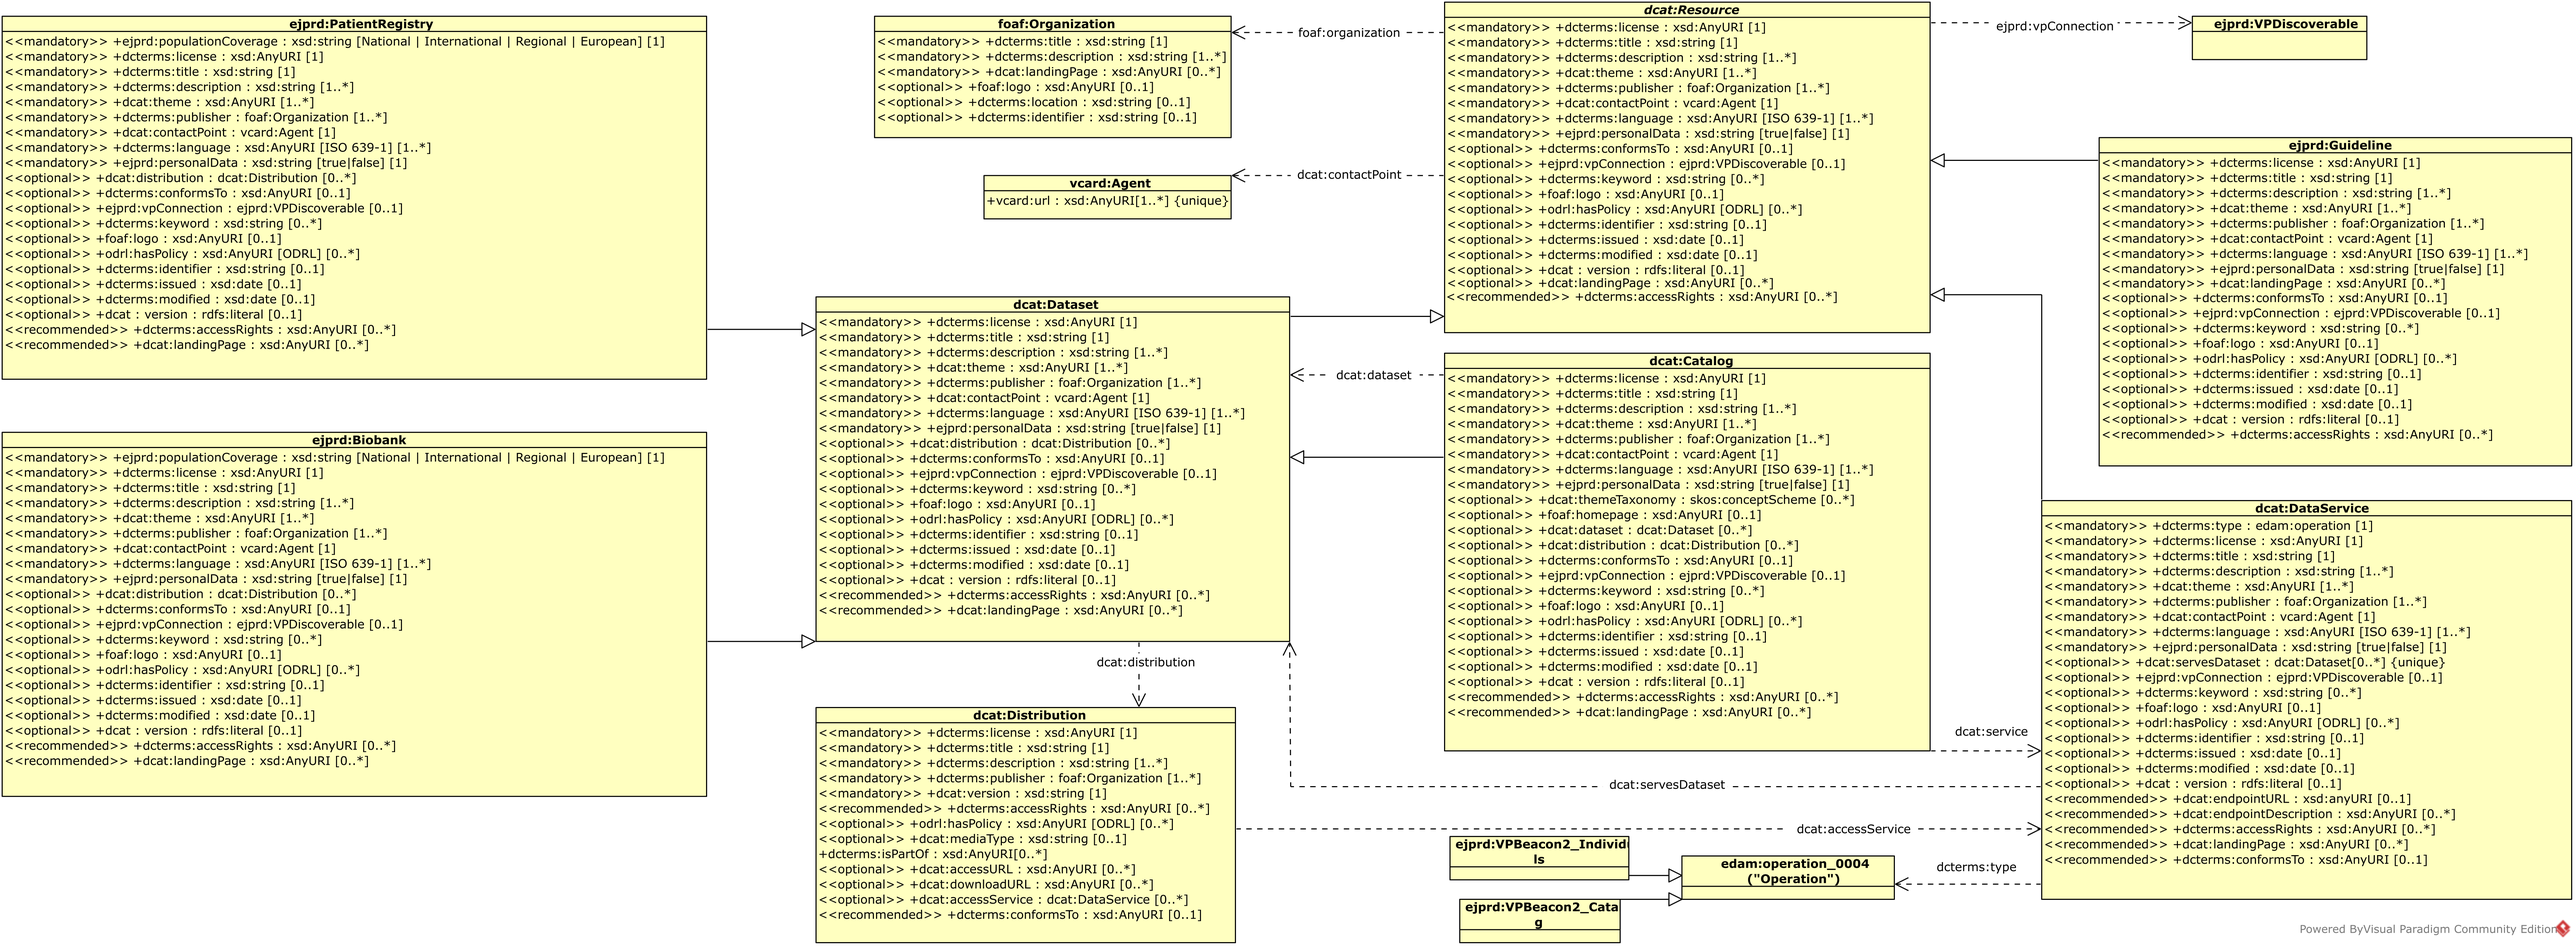
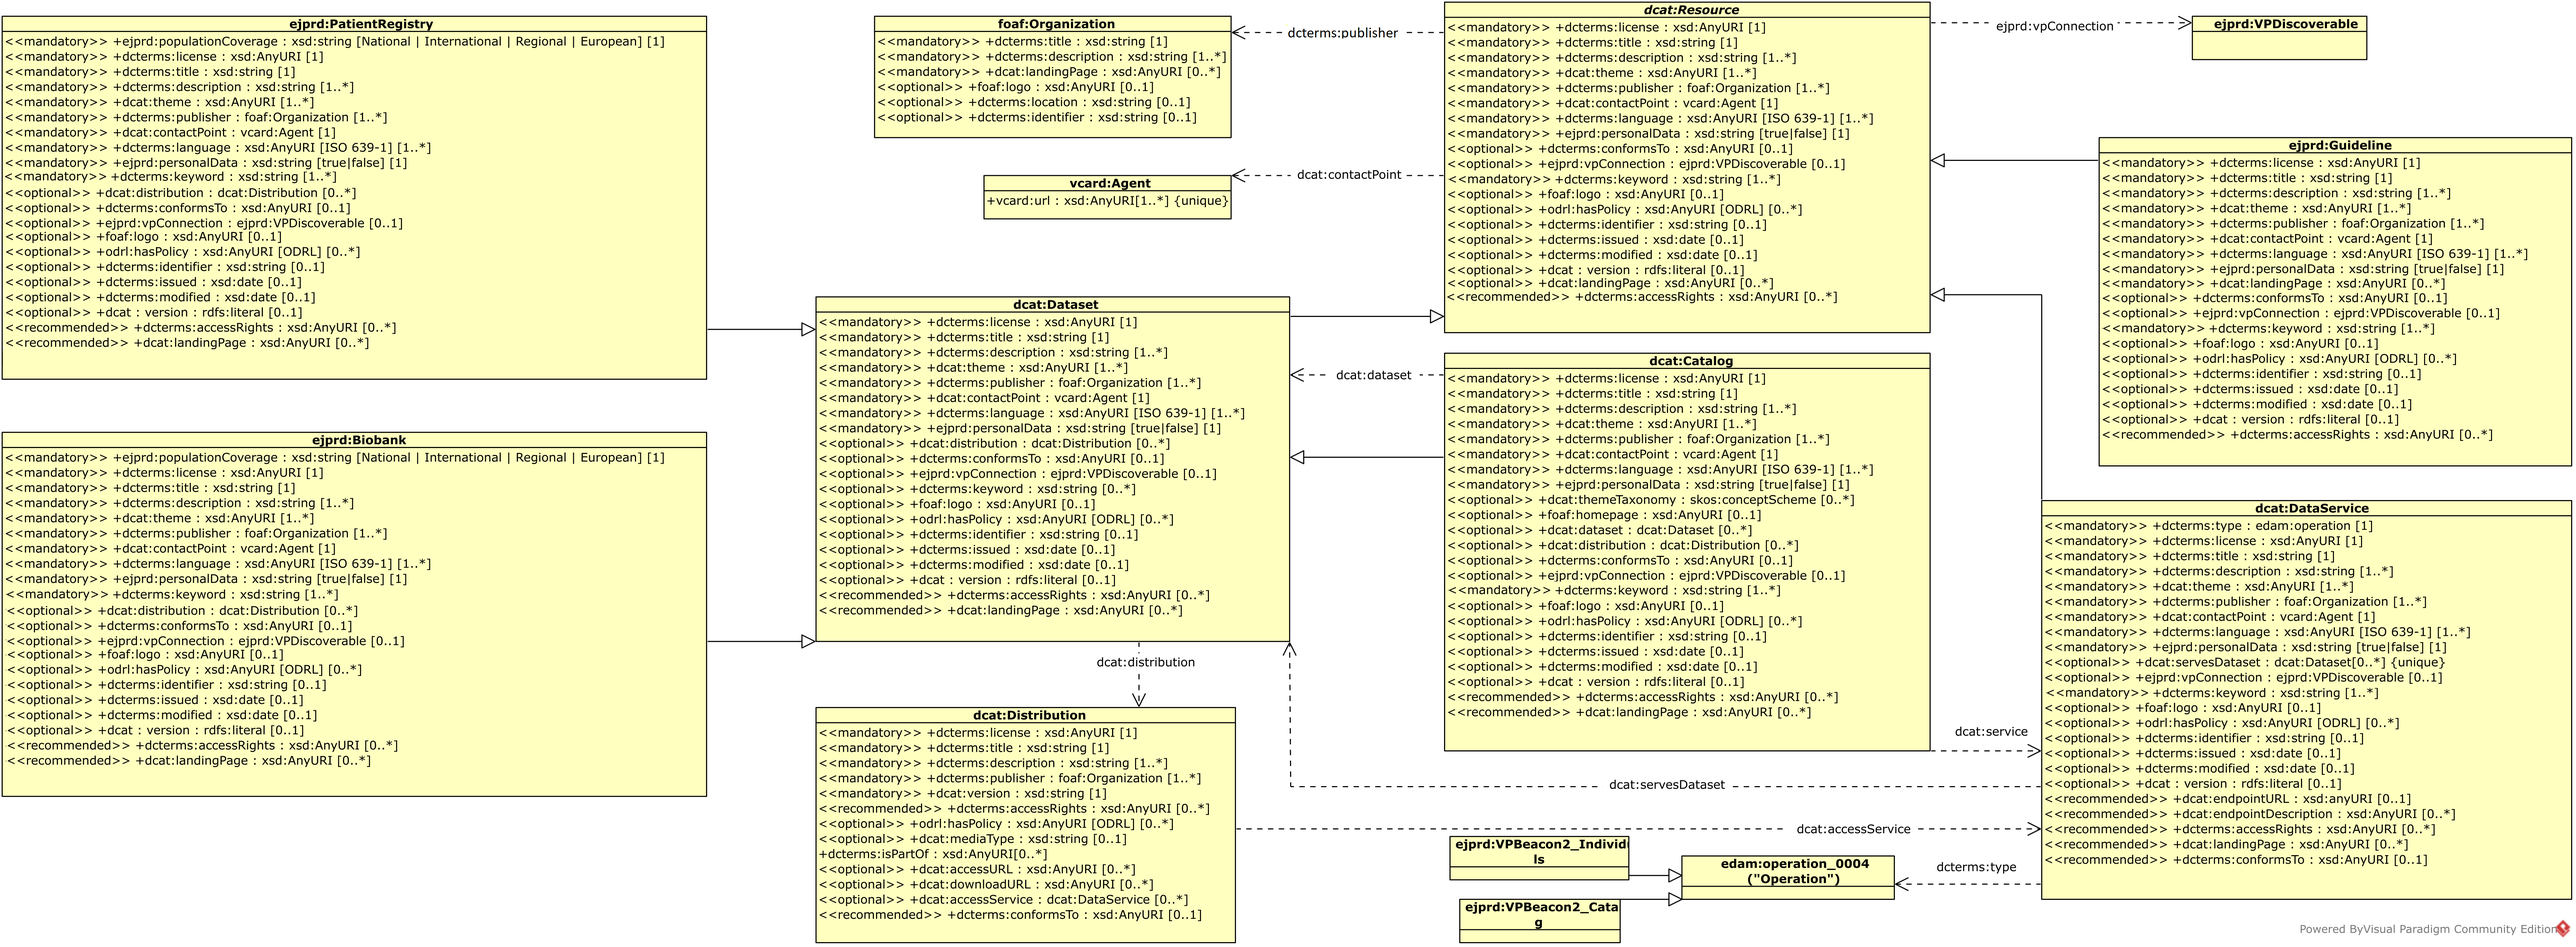
Updating metadatamodel figure link

diff --git a/level_1/metadata.rst b/level_1/metadata.rst
@@ -15,7 +15,7 @@ To illustrate, let us consider the “ERN Bond Catalogue” which can be defined
 
 Figure 5 also depicts what information is mandatory for resources connecting to the VP, what is recommended to have and what is optional. It is important to note that certain classes are not applicable to certain cases. For instance, the class Resource is displayed in italic because it represents an abstract class. Abstract classes cannot be instantiated directly but serve as a basis for derived subclasses (such as Patient Registry, Datasets, Biobanks, etc..). Therefore, it is not expected to describe a Data Service as a Patient Registry. Although they can be described by the same schema, they should be represented by different instances. 
 
-..  figure:: https://github.com/ejp-rd-vp/resource-metadata-schema/blob/master/images/correctKeywordOrganisation.png?raw=true
+..  figure:: https://github.com/ejp-rd-vp/resource-metadata-schema/blob/master/images/figure_model_stable.png?raw=true
     :alt:  Metadata schema for connection to the Rare Diseases Virtual Platform diagram. 
     :width: 100%
 
